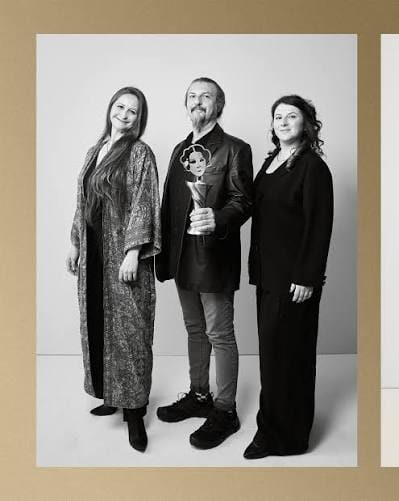
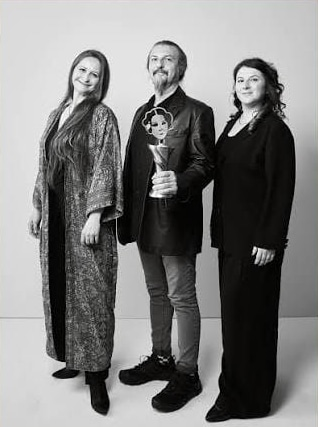
Crop Afife team photo and display it full-frame on the Tiyatro page.

diff --git a/src/app/isler/tiyatro/page.tsx b/src/app/isler/tiyatro/page.tsx
@@ -61,33 +61,53 @@ export default function TheatrePage() {
         </dl>
 
         <div className="mt-14 grid gap-4 sm:grid-cols-2">
-          {project.images.map((image) => (
-            <div
-              key={image.src}
-              className={`relative overflow-hidden bg-surface ${
-                image.wide
-                  ? "aspect-[3/4] sm:col-span-2 sm:aspect-[16/10]"
-                  : "aspect-[4/5]"
-              }`}
-            >
-              <Image
-                src={image.src}
-                alt={image.alt}
-                fill
-                className={
-                  "objectFit" in image && image.objectFit === "contain"
-                    ? "object-contain"
-                    : "object-cover"
-                }
-                sizes={
+          {project.images.map((image) => {
+            const contain =
+              "objectFit" in image && image.objectFit === "contain";
+
+            if (contain && image.wide) {
+              return (
+                <div
+                  key={image.src}
+                  className="flex justify-center bg-surface sm:col-span-2"
+                >
+                  <Image
+                    src={image.src}
+                    alt={image.alt}
+                    width={318}
+                    height={427}
+                    className="h-auto w-full max-h-[28rem] object-contain"
+                    sizes="(max-width: 768px) 100vw, 720px"
+                    quality={90}
+                  />
+                </div>
+              );
+            }
+
+            return (
+              <div
+                key={image.src}
+                className={`relative overflow-hidden bg-surface ${
                   image.wide
-                    ? "(max-width: 768px) 100vw, 720px"
-                    : "(max-width: 640px) 100vw, 360px"
-                }
-                quality={90}
-              />
-            </div>
-          ))}
+                    ? "aspect-[3/4] sm:col-span-2 sm:aspect-[16/10]"
+                    : "aspect-[4/5]"
+                }`}
+              >
+                <Image
+                  src={image.src}
+                  alt={image.alt}
+                  fill
+                  className="object-cover"
+                  sizes={
+                    image.wide
+                      ? "(max-width: 768px) 100vw, 720px"
+                      : "(max-width: 640px) 100vw, 360px"
+                  }
+                  quality={90}
+                />
+              </div>
+            );
+          })}
         </div>
       </article>
     </PageShell>

diff --git a/src/data/content.ts b/src/data/content.ts
@@ -573,6 +573,7 @@ export const cerkesRidvanProject = {
     {
       src: "/images/afife-ekip.jpg",
       alt: "Afife ödül töreni — müzik ekibi",
+      wide: true,
       objectFit: "contain" as const,
     },
   ],
